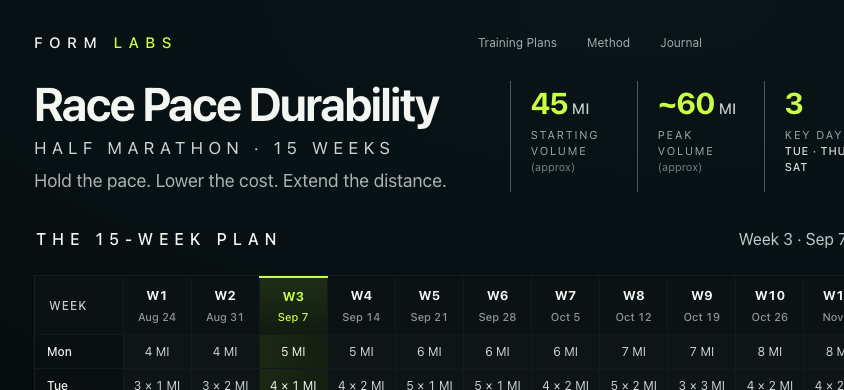
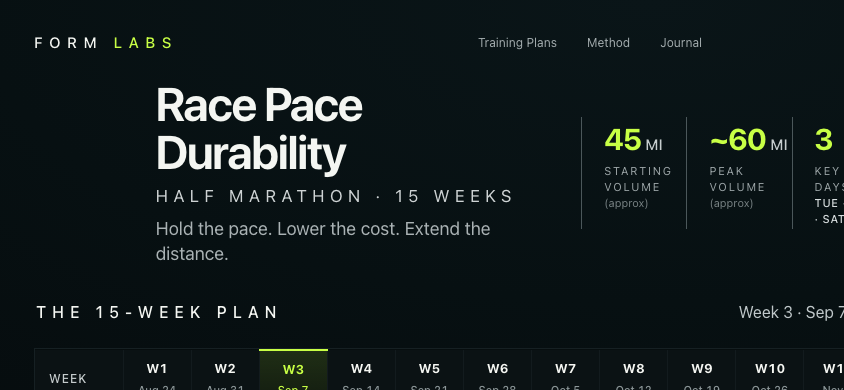
The indent was the composition, not the tile's leftovers
Three fixes from Brice looking at it live.

The title goes back in from the edge. Pass 1 read the 230px padding as the
removed image tile's leftover space and collapsed it, which put the title hard
left and lost the thing that made the hero work — it reads better almost
off-centre. Restored as clamp(0, 14.4vw, 230px): 16.5–17.1% of the viewport from
1280 to 1600, against the reference's 17.4%, and it cannot bring the overflow
back because the columns now divide what is left rather than demanding a
minimum.

`/MI` was touching its own divider. Five equal columns gave `6:30–6:45 /MI` —
easily the longest string in the strip — the same width as `3`, so it ran to its
cell edge and the rule landed on the unit. The strip becomes 1fr 1fr 1fr 1.34fr
1.02fr: the race-pace metric takes the extra and nothing else changes. No
typeface got smaller. 21px of clearance at every width.

`Weekly miles (approx)` moves under TOTAL. Pinned bottom-right under W15's 28 it
read as a footnote to the last week rather than a caption for the row. Now in the
TOTAL label's own column — label to the top of the cell, caption beneath, smaller
and dimmer so it stays a caption — ending exactly at the label column's edge and
never crossing into W1.

Local only. Still no data wired, no production change, no deploy.

diff --git a/design-review/race-pace-durability/styles.css b/design-review/race-pace-durability/styles.css
@@ -35,13 +35,13 @@ button{cursor:pointer}
    The column floors become 0 because 570 + 760 + 30 exceeded the shell at
    1280 and overflowed the last metric off the right edge by 24px at 1600.
    The 1.03 / 1.47 ratio is unchanged, so the proportion is the reference's. */
-.hero{display:grid;grid-template-columns:minmax(0,1.03fr) minmax(0,1.47fr);align-items:center;gap:30px;margin:4px 0 26px}
+.hero{display:grid;grid-template-columns:minmax(0,1.03fr) minmax(0,1.47fr);align-items:center;gap:30px;margin:4px 0 26px;padding-left:clamp(0px,14.4vw,230px)}
 .hero-copy{min-width:0}
 h1{font-size:47px;line-height:1.02;margin:0 0 10px;letter-spacing:-.035em;font-weight:650}
 .eyebrow{font-size:17px;letter-spacing:.32em;color:#ced3d4;margin-bottom:10px}
 .subline{font-size:18px;color:#aab2b4;margin:0;line-height:1.4}
-.hero-stats{display:grid;grid-template-columns:repeat(5,minmax(0,1fr));border-left:1px solid #4b575a;min-width:0}
-.metric{padding:7px 18px 2px 20px;border-right:1px solid #4b575a;min-height:92px;min-width:0}
+.hero-stats{display:grid;grid-template-columns:repeat(3,minmax(0,1fr)) minmax(0,1.34fr) minmax(0,1.02fr);border-left:1px solid #4b575a;min-width:0}
+.metric{padding:7px 20px 2px 22px;border-right:1px solid #4b575a;min-height:92px;min-width:0}
 .metric:last-child{border-right:0}
 .metric strong{display:block;color:var(--lime);font-size:30px;line-height:1;letter-spacing:-.035em;font-weight:700;white-space:nowrap}
 .metric strong span{font-size:15px;color:#c6cdce;letter-spacing:.02em;font-weight:500}
@@ -69,9 +69,9 @@ h1{font-size:47px;line-height:1.02;margin:0 0 10px;letter-spacing:-.035em;font-w
 .matrix tbody td{height:34px;text-align:center;background:#0e1517;color:#d0d6d7;font-size:12px;border-top:1px solid #121a1d;border-right:1px solid #131b1e}
 .matrix tbody td:nth-child(4){background:linear-gradient(90deg,rgba(139,184,56,.16),rgba(80,104,32,.18));color:#f3f6ef}
 .matrix tbody tr.total th,.matrix tbody tr.total td{height:56px;background:#081012;border-top:1px solid #223034;font-weight:600;color:#f1f4ef}
-.matrix tbody tr.total th{font-size:12px;letter-spacing:.18em;color:#afb7b9}
+.matrix tbody tr.total th{font-size:12px;letter-spacing:.18em;color:#afb7b9;vertical-align:top;padding-top:9px}
 .matrix tbody tr.total td:nth-child(4){color:var(--lime)}
-.matrix-note{position:absolute;right:8px;bottom:8px;color:#758083;font-size:10px}
+.matrix-note{position:absolute;left:12px;bottom:8px;width:78px;color:#616b6e;font-size:8.5px;line-height:1.28;letter-spacing:.02em}
 
 .method-grid{display:grid;grid-template-columns:1.08fr 1.48fr .84fr;margin-top:34px;border-bottom:1px solid #2a3639;padding-bottom:28px}
 .method-grid article{min-height:224px;padding:0 38px}

diff --git a/design-review/race-pace-durability/DIFFERENCES.md b/design-review/race-pace-durability/DIFFERENCES.md
@@ -1,4 +1,4 @@
-# Race Pace Durability — static pass 1
+# Race Pace Durability — static pass 2
 
 Working copy of `design/reference/`. **Three approved changes, nothing else.**
 No data wiring, no responsive work, no new pages, no production change.
@@ -9,10 +9,13 @@ Screenshots: `screenshots/` at 1600, 1280, 390 portrait, 844 landscape.
 
 ## What I changed
 
-**1 · The removed image tile's space collapsed.** The tile was already gone from
-the markup, but `.hero{padding-left:230px}` still reserved its column, so the
-title started 230px in from nothing. Removed — the title now begins at the page
-edge, which is what "that space can simply collapse" asked for.
+**1 · The title sits in from the edge, and stays there.** Pass 1 collapsed the
+removed tile's 230px reservation entirely and put the title hard left. Wrong
+call: the indent was not the tile's space, it was the composition — the title
+reads better almost off-centre. Restored as `clamp(0px, 14.4vw, 230px)`, which
+holds it at **16.5–17.1% of the viewport from 1280 to 1600**, against the
+reference's 17.4%. It cannot re-create the old overflow, because the columns now
+divide what is left instead of demanding a minimum.
 
 **2 · The top-right overflow.** Measured at 1600: the page was **24px wider than
 the viewport**, and the last metric — `12 MI · LONGEST CONTINUOUS AT RACE PACE` —
@@ -29,7 +32,19 @@ the space they are given rather than demanding a minimum. `.hero-stats` and
 `.metric` got `min-width:0` for the same reason, and the metric's side padding
 went 22/24 → 18/20 so five metrics breathe in the narrower strip.
 
-Now zero overflow at 1600, 1440 and 1280.
+Now zero overflow at 1280, 1440, 1600 and 2000.
+
+**2b · `/MI` was touching its own divider.** Five equal columns gave
+`6:30–6:45 /MI` — much the longest string in the strip — the same width as `3`,
+so it ran to the edge of its cell and the rule landed on the unit. The strip is
+now `1fr 1fr 1fr 1.34fr 1.02fr`: the race-pace metric takes the extra, nothing
+else changes, and no typeface got smaller. **21px of clearance at every width.**
+
+**2c · `Weekly miles (approx)` moved under TOTAL.** It was pinned bottom-right,
+directly beneath W15's `28`, where it read as a footnote to the last week rather
+than a caption for the row. Now bottom-left inside the TOTAL label's own column:
+label to the top of the cell, caption beneath it, 8.5px and dimmed so it stays a
+caption. It ends exactly at the label column's edge and never crosses into W1.
 
 **3 · Variation 1 — refined borders.** The grid is complete and every line is
 still there; only its contrast drops. Outer `#223034` → `#162023`; cell rules
@@ -45,11 +60,11 @@ cell division and losing it merges the totals into Sunday.
 | --- | --- |
 | **1 · Global frame** | **Matches.** Same field, gradient, shell padding, footer rule. |
 | **2 · Navigation** | **Matches** in layout and type. `Share Plan` and `Download PDF` use text glyphs (`⇧`, `▣`) where the reference has drawn icons. Inherited from the prototype, not introduced here. |
-| **3 · Hero** | **Differs, approved.** No image tile; title starts at x=34 rather than x=267. |
-| **4 · Metrics** | **Differs, consequence of 3.** The strip is wider — x 681→1562 against roughly 790→1500 in the reference — because the hero's left column no longer carries the tile's 230px. Same five metrics, same order, same dividers, same lime. **If you want the reference's tighter strip back, that is a ratio change, and I have not made it: it is a design decision, not an overflow fix.** |
+| **3 · Hero** | **Differs, approved.** No image tile. The title's indent is kept and now scales — x=264 at 1600 against x=267 in the reference. |
+| **4 · Metrics** | **Matches.** Strip x 807→1566 against roughly 790→1500 in the reference. Same five metrics, order, dividers and lime, with the race-pace column widened so its unit clears the rule. |
 | **5 · Plan heading / week control** | **Matches.** `THE 15-WEEK PLAN`, `Week 3 · Sep 7 – Sep 13`, `THIS WEEK` pill, both circles. |
-| **6 · Matrix** | **Matches**, quieter borders. One difference in our favour: the reference image shows an empty 16th column past W15; the real table has none and fills to the edge. |
-| **7 · Methodology** | **Matches.** All three sections, same order, same copy. `WHY THIS BLOCK EXISTS` wraps to 5 lines rather than 6 — its column is wider now, same cause as 4. Dimension icons are glyphs (`▥`, `◎`) where the reference has drawn icons. |
+| **6 · Matrix** | **Matches**, quieter borders. Two intentional differences: the caption moved from under W15 to under TOTAL, and the reference image's empty 16th column past W15 does not exist in the real table, which fills to the edge. |
+| **7 · Methodology** | **Matches.** All three sections, same order, same copy. Dimension icons are glyphs (`▥`, `◎`) where the reference has drawn icons. |
 | **8 · Footer** | **Matches.** |
 
 ---
